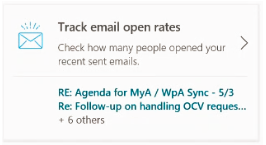
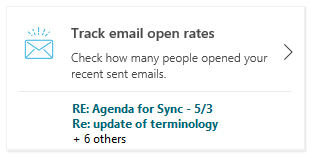
images in email read rates

diff --git a/WorkplaceAnalytics/MyAnalytics/Includes/to-see-info-about-email-message.md b/WorkplaceAnalytics/MyAnalytics/Includes/to-see-info-about-email-message.md
@@ -12,7 +12,7 @@ localization_priority: normal
 ms.prod: mya
 ---
 
-**To see information about a sent emails**
+**To see read information about sent emails**
 
 1. On the **Home** ribbon, select the **Insights** icon. If the Insights panel isn't already open, it opens now. 
 
